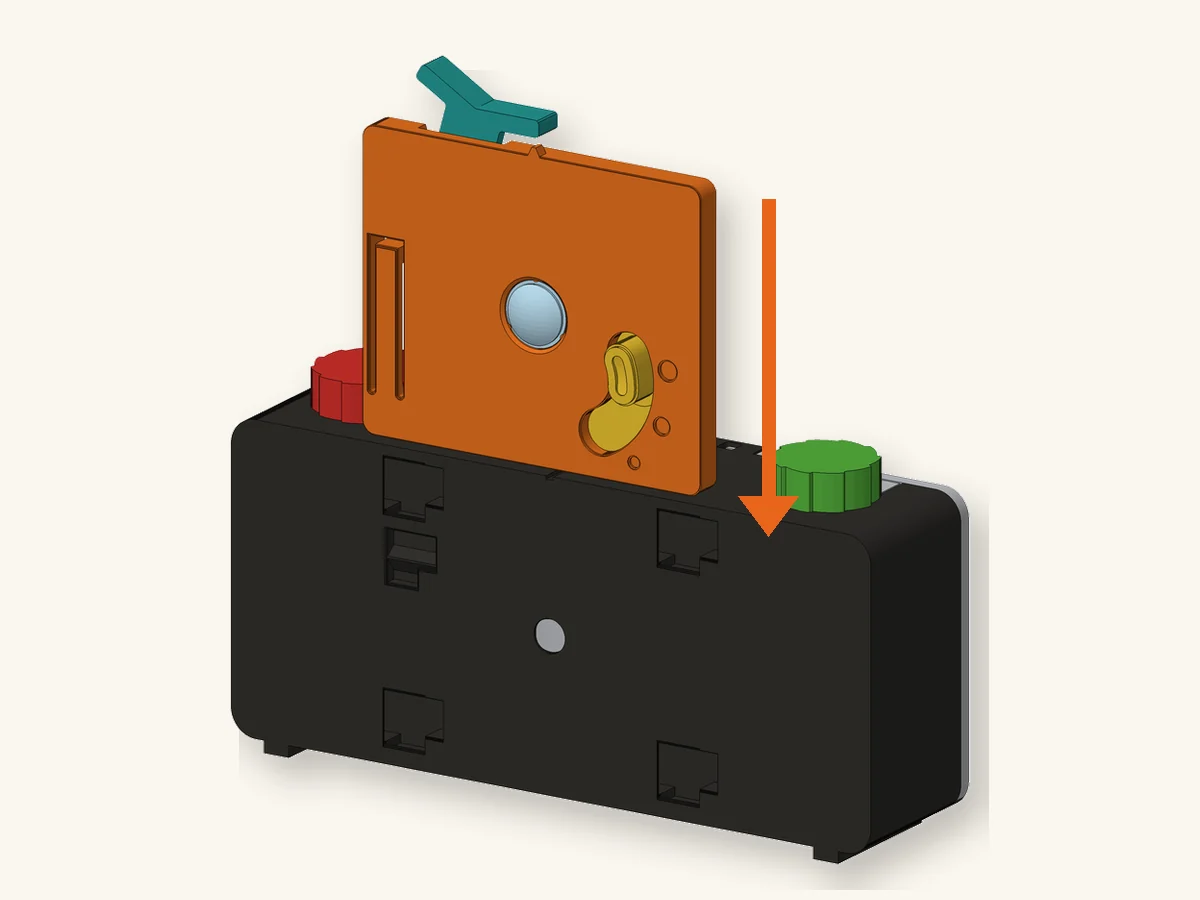
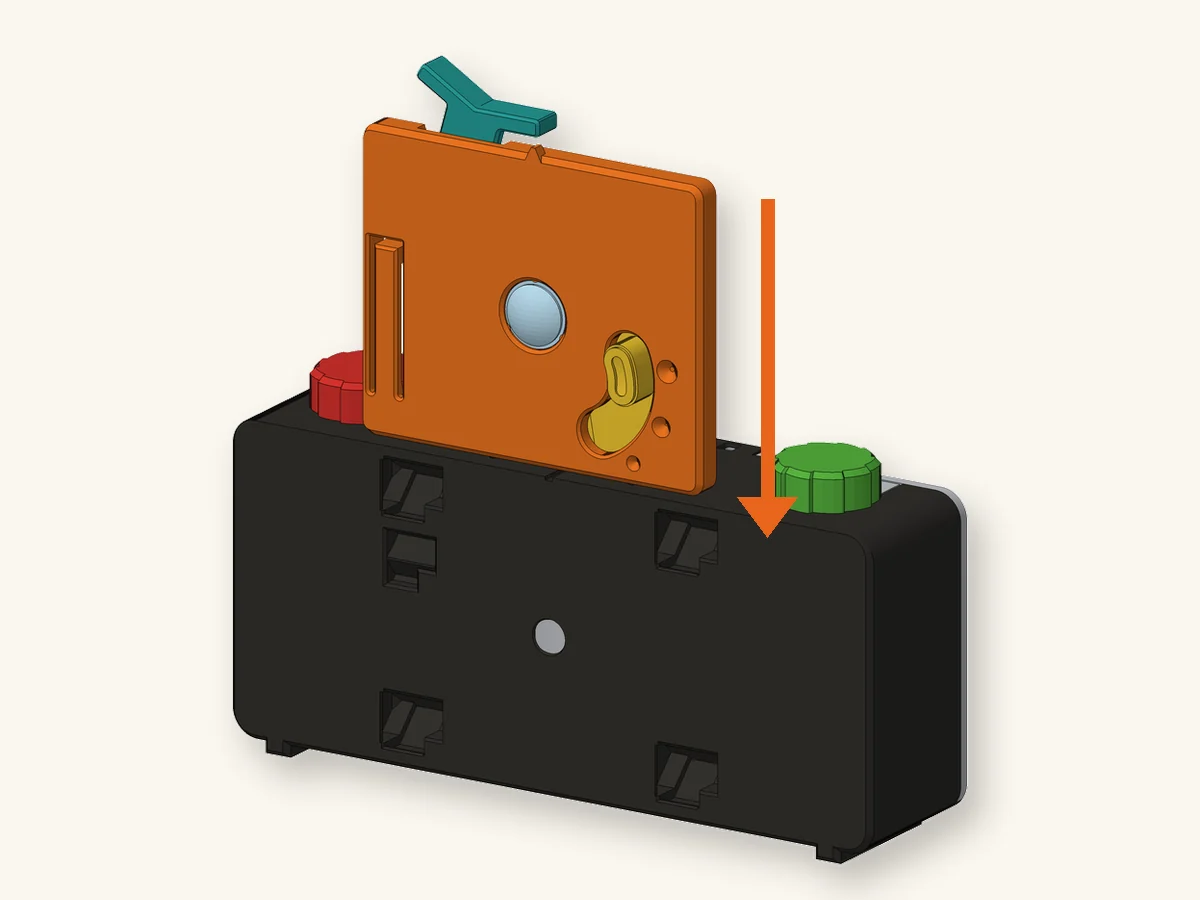
fix(site): one home page on every screen, sized to a phone
The home page had become two pages: a phone and a desk got different
sections in a different order, with different words in the four facts.
Both now get the pitch, the kit, how it works, the camera taken apart,
its four numbers, the lessons and the last call, from the same parts.
A phone leaves out only the strip of links and the viewer's step and
turn buttons.

The name stays in the top bar on every phone, with a kit in the basket
too. The hero's camera and the kit's picture take the height the screen
has left, so on an iPhone SE the hero ends with both buttons on the
first screen. The stickers and the four number cards keep their colours
on a phone.

The kit's picture no longer shows a faint box round each part: every
shadow was cut off at its part's own edges. Lesson 1's table fits an
iPhone SE. The link under the kit reads "Check out the shop".

diff --git a/public/css/site.css b/public/css/site.css
@@ -639,7 +639,6 @@ mark { background: #FFE0C7; color: inherit; }
 @media (max-width: 420px) {
   .nav li:first-child { display: none; }
   .narrow-only { display: block; }
-  .top-in.has-basket .brand span { position: absolute; width: 1px; height: 1px; overflow: hidden; clip: rect(0 0 0 0); }
 }
 @media (prefers-reduced-motion: reduce) {
   html { scroll-behavior: auto; }
@@ -1604,7 +1603,6 @@ tr.here, li.here { outline-offset: 2px; }
   .top-in { gap: 6px; }
   .brand { gap: 6px; }
 }
-@media (max-width: 350px) { .brand span { position: absolute; width: 1px; height: 1px; overflow: hidden; clip: rect(0 0 0 0); } }
 .steps4 img { aspect-ratio: 4 / 3; }
 @media (min-width: 1081px) { .x3-bar { grid-template-columns: auto minmax(0, 1fr); } .x3-steps { flex-wrap: nowrap; } }
 /* part facts: one quiet line, not three boxes */
@@ -1745,66 +1743,70 @@ tr.here, li.here { outline-offset: 2px; }
 }
 @media (prefers-reduced-motion: reduce) { .lessons-page .lc, .lessons-page .lc:hover { transition: none; transform: none; } }
 
-/* ================================================================ v12: phones
-   1. A scroller holds its own hidden labels.  .sr-only is absolutely placed; inside a sideways scroller that is not itself positioned it escaped the scroller
-      and made the whole page 2,000 px wide on a phone (the lesson row on the home page, the tables on the Build guide and Parts pages).
-   2. The home page on a phone is one bold colour (the hero), then cream and white, then the last call: hero > the kit > how it works > lessons > four facts > last call.
-      The camera sits above the buttons.  The take-apart viewer (it is on the Parts page) and the strip of links (they are in the menu) are left out. */
+/* ================================================================ v13: one page on every screen
+   The home page has one order and one set of parts on a phone and on a desk: the pitch, the kit, how it works, the camera taken apart, its four numbers, the lessons,
+   the last call.  What differs on a phone is layout (one column; the hero's camera sits between the words and the buttons) and three things left out because they
+   are in the menu or done by touch: the strip of links, the viewer's step buttons and its turn arrows.  Colour: the stickers, cards and numbers keep theirs; the
+   sections behind them are cream and white on a phone, where five coloured bands in a row read as noise.
+   Heights (v13): a phone screen is short.  The hero's camera and the kit's picture take the height the screen has left (100svh: the screen with the browser's
+   bars showing), so the buttons under them are on the first screen of an iPhone SE (375 x 548 showing) as well as a tall phone.
+   Also here (v12): a scroller holds its own hidden labels (.sr-only is absolutely placed; inside a sideways scroller that is not itself positioned it escaped and
+   made the page 2,000 px wide on a phone). */
 html { overflow-x: clip; }
 .tablewrap, .lcar-track, .cb-strip, .cb-secs { position: relative; }
 .ltile { position: relative; }
 .phone-only { display: none; }
-.bns .bn-s { display: none; }
-.kb-more { display: inline-block; margin-left: 20px; font-weight: 700; }
+.kb-pic.frame, .ks-pic .frame { background: #FAF6EE; }             /* the kit's picture is drawn on this paper: its frame is the same paper, so no box shows inside the frame */
+.kb-pic img, .ks-pic img { mix-blend-mode: normal; }
+.kb-act { display: flex; flex-wrap: wrap; align-items: center; gap: 12px 22px; margin: 0; }
+.kb-more { font-weight: 700; }
+.home .plan { border-bottom: 0; }                                /* the viewer's own line follows */
+.home .learn { border-top: var(--line); }
 @media (max-width: 600px) {
   .phone-only { display: block; }
-  .mainnav { display: none; }                                   /* the logo, the kit, the menu: Start here is the menu's first line */
+  .mainnav { display: none; }                                   /* the logo with its name, the kit, the menu: Start here is the menu's first line */
   .top-in { justify-content: space-between; }
 
-  .home .hero { padding: 22px 0 30px; background-size: 20px 20px; }
-  .home .hero-in { display: flex; flex-direction: column; gap: 0; align-items: stretch; }
+  .home .hero { padding: 18px 0 26px; background-size: 20px 20px; }
+  .home .hero-in { display: flex; flex-direction: column; gap: 0; align-items: stretch; min-height: calc(100vh - 104px); min-height: min(calc(100svh - 104px), 640px); }
   .home .hero-text { display: contents; }
-  .home .hero-stks { order: 1; margin: 0 0 16px; gap: 9px; }
-  .home .hero-stks .stk { background: #fff; font-size: 0.88rem; padding: 7px 11px 8px; box-shadow: 2px 2px 0 var(--ink); }
-  .home .hero h1 { order: 2; font-size: clamp(2.05rem, 9.4vw, 2.6rem); margin-bottom: 12px; }
-  .home .hero .lead { order: 3; margin: 0; font-size: 1.02rem; }
-  .home .hero-pic { order: 4; margin: 26px 0 0; }
-  .home .hero-pic .frame { padding: 10px 12px; }
-  .home .hero .ctas { order: 5; margin: 22px 0 0; flex-direction: column; flex-wrap: nowrap; gap: 4px; }
-  .home .hero .ctas .btn, .home .final-act .btn { width: 100%; justify-content: center; }
-  .home .btn.alt { background: none; border-color: transparent; box-shadow: none; min-height: 44px; padding-top: 8px; padding-bottom: 8px; text-decoration: underline; text-decoration-thickness: 2px; text-underline-offset: 4px; font-size: 1rem; }
-  .home .btn.alt:hover, .home .btn.alt:active { transform: none; background: none; }
+  .home .hero-stks { order: 1; margin: 0 0 14px; gap: 9px; }
+  .home .hero-stks .stk { font-size: 0.88rem; padding: 7px 11px 8px; box-shadow: 2px 2px 0 var(--ink); }
+  .home .hero h1 { order: 2; font-size: clamp(1.85rem, 9vw, 2.6rem); margin-bottom: 10px; }
+  .home .hero .lead { order: 3; margin: 0; font-size: 1rem; }
+  .home .hero-pic { order: 4; margin: 22px 0 0; flex: 1 1 150px; min-height: 150px; max-height: 340px; display: flex; }
+  .home .hero-pic .frame { flex: 1 1 auto; aspect-ratio: auto; min-height: 0; padding: 0; }
+  .home .hero-pic .h3d-still { padding: 10px 12px; }
+  .home .hero .ctas { order: 5; margin: 20px 0 0; flex-wrap: nowrap; gap: 10px; }
+  .home .hero .ctas .btn, .home .final-act .btn { flex: 1 1 0; width: auto; min-width: 0; justify-content: center; padding-left: 8px; padding-right: 8px; font-size: clamp(0.9rem, 4.2vw, 1.05rem); }
 
-  .home .kitbox { background: var(--cream); border-bottom: 0; padding: 34px 0 10px; }
-  .home .kitbox-in { gap: 20px; }
-  .home .kitbox h2 { font-size: 1.85rem; margin-bottom: 10px; }
-  .home .kb-list { margin-bottom: 18px; font-size: 0.98rem; }
-  .home .kb-list li { padding: 6px 0 6px 28px; }
-  .home .kitbox .btn { width: 100%; justify-content: center; }
-  .home .kb-more { display: block; margin: 12px 0 0; text-align: center; }
+  .home .kitbox { background: var(--cream); border-bottom: 0; padding: 30px 0 8px; }
+  .home .kitbox-in { gap: 16px; }
+  .home .kb-pic img { max-height: clamp(170px, calc(100svh - 390px), 270px); object-fit: contain; }   /* on a short screen the picture gives way, so the list and the button stay on the screen */
+  .route-store .ks-pic img { max-height: clamp(150px, calc(100svh - 380px), 250px); }
+  .home .kb-k { margin-bottom: 8px; }
+  .home .kitbox h2 { font-size: 1.85rem; margin-bottom: 8px; }
+  .home .kb-list { margin-bottom: 14px; font-size: 0.94rem; line-height: 1.4; }
+  .home .kb-list li { padding: 4px 0 4px 28px; }
+  .home .kb-list li::before { top: 0.7em; }
+  .home .kb-act { gap: 10px 14px; }
+  .home .kb-act .btn { padding: 14px 16px; }
+  .home .kb-more { font-size: 0.96rem; }
 
-  .home .plan { background: var(--cream); border: 0; padding: 34px 0 36px; }
-  .home .steps4 { grid-template-columns: minmax(0, 1fr); gap: 10px; margin-top: 18px; }
+  .home .plan { background: var(--cream); border: 0; padding: 30px 0 34px; }
+  .home .steps4 { grid-template-columns: minmax(0, 1fr); gap: 10px; margin-top: 16px; }
   .home .steps4 li { display: grid; grid-template-columns: 88px minmax(0, 1fr); grid-template-rows: auto auto; column-gap: 14px; align-items: center; padding: 8px 12px 8px 8px; box-shadow: 2px 2px 0 var(--ink); }
   .home .steps4 img { grid-row: 1 / 3; grid-column: 1; width: 88px; aspect-ratio: 4 / 3; margin: 0; border-radius: 8px; }
   .home .steps4 h3 { grid-column: 2; align-self: end; margin: 0; font-size: 1.02rem; }
   .home .steps4 p { grid-column: 2; align-self: start; font-size: 0.88rem; }
   .home .steps4 .s-n { width: 26px; height: 26px; font-size: 0.85rem; top: -8px; left: -8px; }
 
-  .home .learn { padding: 34px 0 26px; border-top: var(--line); }
-  .home .learn-head { margin-bottom: 14px; }
-  .home .learn-head h2 { font-size: 1.6rem; }
-
-  /* the page's order on a phone: the pitch, the kit, how it works, the camera taken apart with its four facts, the lessons, the last call */
-  .home { display: flex; flex-direction: column; }
-  .home > .hero { order: 1; } .home > .kitbox { order: 2; } .home > .plan { order: 3; } .home > .x3 { order: 4; } .home > .guide { order: 5; } .home > .learn { order: 6; } .home > .strip1 { order: 7; } .home > .final { order: 8; }
-
-  /* the take-apart viewer, small: a square stage and one slider.  It opens itself once when it comes on screen (app.js, mountExplode). */
-  .home .x3 { background: #fff; border-top: var(--line); border-bottom: 0; padding: 30px 0 4px; }
+  /* the take-apart viewer: a stage and one slider.  It opens itself once when it comes on screen (app.js, mountExplode). */
+  .home .x3 { background: #fff; border-top: var(--line); border-bottom: 0; padding: 28px 0 4px; }
   .home .x3-head { display: block; }
   .home .x3-head h2 { font-size: 1.6rem; }
   .home .x3-how { font-size: 0.92rem; margin: 4px 0 0; }
-  .home .x3-stage { height: min(88vw, 370px); margin-top: 2px; }
+  .home .x3-stage { height: min(88vw, 370px, calc(100svh - 250px)); min-height: 200px; aspect-ratio: auto; max-height: none; margin-top: 2px; }
   .home .x3-bar { display: block; }
   .home .x3-steps, .home .x3-turn { display: none; }
   .home .x3-slide { gap: 0; }
@@ -1812,24 +1814,38 @@ html { overflow-x: clip; }
   .home .x3-caps { min-height: 4.5em; margin-top: 2px; }
   .home .x3-cap { font-size: 0.95rem; line-height: 1.4; }
 
-  /* the four facts: small coloured stickers under the viewer, not a section of their own */
-  .home .guide { background: #fff; border-top: 0; padding: 6px 0 36px; }
-  .home .guide h2 { font: 800 0.8rem/1.2 var(--sans); letter-spacing: 0.06em; text-transform: uppercase; color: var(--ink-2); margin: 0 0 14px; }
-  .home .bns { display: flex; flex-wrap: wrap; gap: 11px 10px; margin: 0; }
-  .home .bns div { display: flex; align-items: baseline; gap: 7px; border-width: 2px; border-radius: 10px; box-shadow: 2px 2px 0 var(--ink); padding: 7px 11px 8px; }
-  .home .bns div:nth-child(odd) { transform: rotate(-1.4deg); }
-  .home .bns div:nth-child(even) { transform: rotate(1.1deg); }
-  .home .bns dt, .home .bns dt.bn-sm { font-size: 1.06rem; line-height: 1.15; letter-spacing: -0.01em; }
-  .home .bns dd { margin: 0; font-size: 0.84rem; font-weight: 600; line-height: 1.2; }
-  .bns .bn-l { display: none; }
-  .bns .bn-s { display: inline; }
+  /* the four numbers: the same four coloured cards, two by two */
+  .home .guide { background: #fff; border-top: 0; padding: 10px 0 34px; }
+  .home .guide h2 { font-size: 1.6rem; margin: 0 0 14px; }
+  .home .bns { grid-template-columns: repeat(2, minmax(0, 1fr)); gap: 10px; margin: 0; }
+  .home .bns div { border-width: 2px; border-radius: 12px; box-shadow: 3px 3px 0 var(--ink); padding: 10px 11px 11px; min-width: 0; }
+  .home .bns dt { font-size: clamp(1.2rem, 6.2vw, 1.7rem); line-height: 1.05; }
+  .home .bns dt.bn-sm { font-size: clamp(0.84rem, 4vw, 1.05rem); line-height: 1.6; letter-spacing: -0.02em; }
+  .home .bns dd { margin: 4px 0 0; font-size: 0.82rem; line-height: 1.3; }
 
-  .home .learn { border-top: var(--line); background: var(--cream); }
+  .home .learn { padding: 30px 0 26px; border-top: var(--line); background: var(--cream); }
+  .home .learn-head { margin-bottom: 14px; }
+  .home .learn-head h2 { font-size: 1.6rem; }
 
   .home .strip1 { display: none; }
 
-  .home .final { padding: 32px 0 34px; }
+  .home .final { padding: 30px 0 34px; }
   .home .final-in { grid-template-columns: minmax(0, 1fr); gap: 16px; }
-  .home .final-win { display: none; }
-  .home .final-act { flex-direction: column; flex-wrap: nowrap; gap: 4px; }
+  .home .final-win { margin-top: 6px; font-size: 1rem; }
+  .home .final-act { flex-direction: row; flex-wrap: nowrap; gap: 10px; }
+}
+/* the top bar on the narrowest phones (an iPhone SE of 2016 is 320 px): the name stays; the parts beside it give a little */
+@media (max-width: 350px) {
+  .top-in { padding: 10px 10px; gap: 5px; }
+  .brand { font-size: 0.95rem; gap: 5px; }
+  .top-act { gap: 5px; }
+  .top-cta { padding: 9px 8px; font-size: 0.82rem; }
+  .basket-btn, .menu-btn { min-width: 36px; padding: 0 6px; }
+}
+/* a short phone screen (an iPhone SE shows 548 px, the 2016 one 454): the hero's words give a little so the buttons stay in reach */
+@media (max-width: 600px) and (max-height: 500px) {
+  .home .hero h1 { font-size: 1.7rem; }
+  .home .hero .lead { font-size: 0.94rem; }
+  .home .hero-pic { flex-basis: 120px; min-height: 120px; margin-top: 16px; }
+  .home .hero .ctas { margin-top: 16px; }
 }

diff --git a/public/js/app.js b/public/js/app.js
@@ -439,24 +439,24 @@
       '<section class="kitbox" aria-labelledby="kb-h"><div class="wrap kitbox-in"><div class="kb-pic frame">' + img(PIC.plan_parts, "Everything in the box laid out: black body, grey back, orange front plate, teal shutter, yellow wheel, red spool, green knob, blue frame wheel, lens, pinhole ring and disc, and a roll of film", ' width="1200" height="900"') + "</div>" +
       '<div class="kb-t"><p class="kb-k">What&rsquo;s in the box</p><h2 id="kb-h">The starter kit' + (sp ? ' <span class="kb-price tnum">' + esc(sp) + "</span>" : "") + "</h2>" +
       '<ul class="kb-list">' + kitList.map(function (x) { return "<li>" + esc(x) + "</li>"; }).join("") + "</ul>" +
-      (addBtn(S, "main big", "Add to basket") || '<a class="btn main big" href="#store">See the kit</a>') + '<a class="kb-more" href="#store">Everything in the shop</a></div></div></section>' +
+      '<p class="kb-act">' + (addBtn(S, "main big", "Add to basket") || '<a class="btn main big" href="#store">See the kit</a>') + '<a class="kb-more" href="#store">Check out the shop</a></p></div></div></section>' +
       // HOW IT WORKS: four pictures, one line each
       '<section class="plan" aria-labelledby="pl-h"><div class="wrap"><h2 id="pl-h">How it works.</h2><ol class="steps4">' +
       '<li><span class="s-n" aria-hidden="true">1</span>' + img(PIC.booklet, "The CURVE 35 build guide on top of the box", ' width="640" height="414"') + '<h3><a href="#start">Open the box</a></h3><p>The pieces and a guide, nothing else.</p></li>' +
       '<li><span class="s-n" aria-hidden="true">2</span>' + img(PIC.plan_build, "The orange front plate held above the black body, with an arrow showing it sliding down into place", ' width="1200" height="900"') + '<h3><a href="#build">Build it</a></h3><p>Each part clicks in. No tools.</p></li>' +
       '<li><span class="s-n" aria-hidden="true">3</span>' + img(PIC.plan_shoot, "The camera seen from behind, aimed at a person waving next to a tree in the sun, with the edges of the picture marked", ' width="1200" height="900"') + '<h3><a href="#build-p1">Shoot a roll</a></h3><p>Take it outside on real film.</p></li>' +
       '<li><span class="s-n" aria-hidden="true">4</span>' + img(PIC.plan_learn, "A lesson diagram: light from the top and the foot of a tree crosses in a small hole and lands upside down on the film", ' width="1200" height="900"') + '<h3><a href="#lessons">Learn how it works</a></h3><p>One short lesson per piece.</p></li></ol></div></section>' +
+      // THE CAMERA VIEWER
+      explodeSection() +
+      // FOUR FACTS: each one said nowhere else on this page (canon/facts.yaml).  The same four cards and the same words on every screen (v13)
+      '<section class="guide" aria-labelledby="gd-h"><div class="wrap"><h2 id="gd-h">Small camera, big numbers.</h2>' +
+      '<dl class="bns"><div class="bn-y"><dt>' + esc(factSay("shutter_speed", "1/322 s")) + '</dt><dd>how long the shutter stays open</dd></div>' +
+      '<div class="bn-b"><dt class="bn-sm">' + dots.map(esc).join(" &middot; ") + '</dt><dd>three dots on one wheel set how much light gets in</dd></div>' +
+      '<div class="bn-g"><dt>' + esc(factSay("light_rays", "69 million")) + '</dt><dd>light rays traced at the closed camera. None got in.</dd></div>' +
+      '<div class="bn-o"><dt>' + esc(factSay("print_hours", "9.4 hours")) + '</dt><dd>to print every part on your own 3D printer</dd></div></dl></div></section>' +
       // LESSONS: a carousel of colourful tiles
       '<section class="learn" aria-labelledby="ln-h"><div class="wrap"><div class="learn-head"><h2 id="ln-h">Nine lessons. Nine questions.</h2>' +
       '<a class="btn" href="#lessons">All lessons</a></div>' + lessonCarousel() + "</div></section>" +
-      // FOUR FACTS: each one said nowhere else on this page (canon/facts.yaml)
-      '<section class="guide" aria-labelledby="gd-h"><div class="wrap"><h2 id="gd-h">Small camera, big numbers.</h2>' +
-      '<dl class="bns"><div class="bn-y"><dt>' + esc(factSay("shutter_speed", "1/322 s")) + '</dt><dd><span class="bn-l">how long the shutter stays open</span><span class="bn-s">shutter</span></dd></div>' +
-      '<div class="bn-b"><dt class="bn-sm">' + dots.map(esc).join(" &middot; ") + '</dt><dd><span class="bn-l">three dots on one wheel set how much light gets in</span><span class="bn-s">three dots for the light</span></dd></div>' +
-      '<div class="bn-g"><dt>' + esc(factSay("light_rays", "69 million")) + '</dt><dd><span class="bn-l">light rays traced at the closed camera. None got in.</span><span class="bn-s">light rays tried. None got in.</span></dd></div>' +
-      '<div class="bn-o"><dt>' + esc(factSay("print_hours", "9.4 hours")) + '</dt><dd><span class="bn-l">to print every part on your own 3D printer</span><span class="bn-s">to print your own</span></dd></div></dl></div></section>' +
-      // THE CAMERA VIEWER
-      explodeSection() +
       // PROGRAMS, OPEN FILES, BUILDS: one line
       '<nav class="strip1" aria-label="More"><div class="wrap"><p><a href="#programs">Programs for classes</a><a href="#open-files">Open files</a><a href="#builds">Builds and remixes</a><a href="#teachers">For teachers</a></p></div></nav>' +
       // LAST CALL

diff --git a/public/css/lesson.css b/public/css/lesson.css
@@ -203,6 +203,7 @@
 .lp-table th, .lp-table td { text-align: left; padding: 9px 10px 9px 0; border-bottom: 1px solid var(--lp-rule); vertical-align: top; }
 .lp-table thead th { font-weight: 800; color: var(--lc-ink); border-bottom: var(--lp-line); }
 .lp-table tbody th { font-weight: 700; color: var(--lp-ink2); white-space: nowrap; }
+@media (max-width: 600px) { .lp-table { font-size: 0.86rem; } .lp-table tbody th { white-space: normal; } .lp-table th, .lp-table td { padding-right: 8px; overflow-wrap: break-word; } }   /* v13: a row's name kept on one line made the table 360 px wide; on an iPhone SE its last column was cut off */
 
 /* the teacher view */
 .lp-teach { padding: clamp(32px, 4vw, 48px) 0; background: var(--lp-paper2); border-bottom: var(--lp-line); scroll-margin-top: calc(var(--lp-top) + 60px); }
